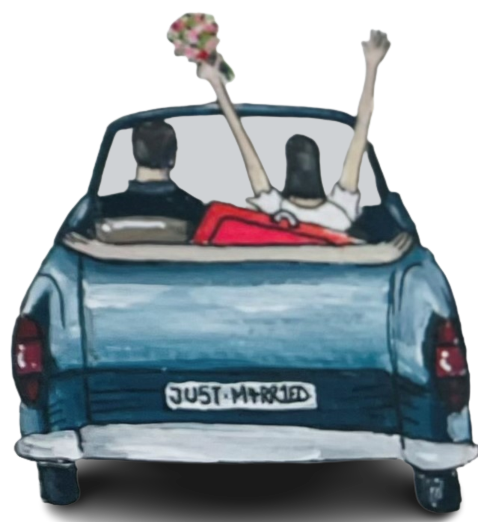
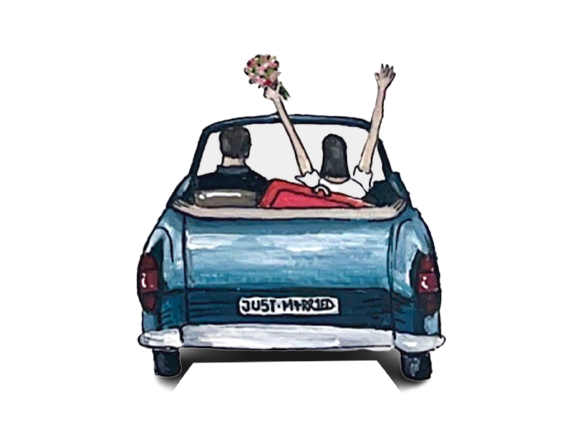
higher res wbb and car

diff --git a/README.md b/README.md
@@ -39,10 +39,10 @@ Firstly, a big thanks 🙏🏻 for the overwhelming response on [HackerNews](htt
 _P.S. For any queries or concerns, you can reach out to me on [Twitter](https://twitter.com/ram__patra). I'll try my best to help 🙏._
 
 TODO:
-- [ ] Date directly under G&A in main banner
-- [ ] Change colour of banner when you scroll down
-- [ ] update images with mum's edited ones
-- [ ] Main banner to be made a flat colour so you can see the wording? Otherwise picture with more blank space
+- [x] Date directly under G&A in main banner
+- [x] Change colour of banner when you scroll down
+- [ ] Update images with mum's bus and church
+- [x] Main banner to be made a flat colour so you can see the wording? Otherwise picture with more blank space
 - [ ] Remove section with when and where/move down the page
 - [ ] In the order of the day section, can we link the addresses so they can open in google maps if needed? 
 - [ ] Dress to be own section rather than pop up
